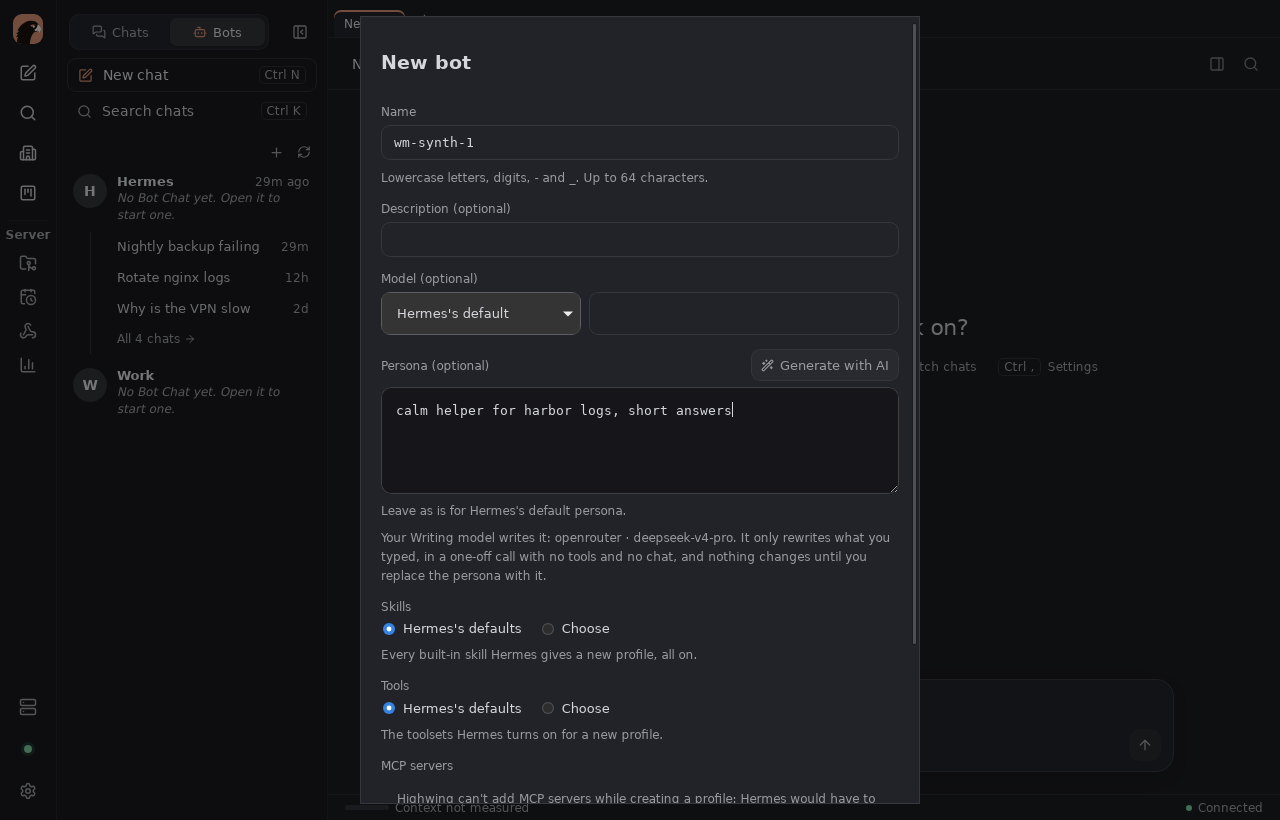
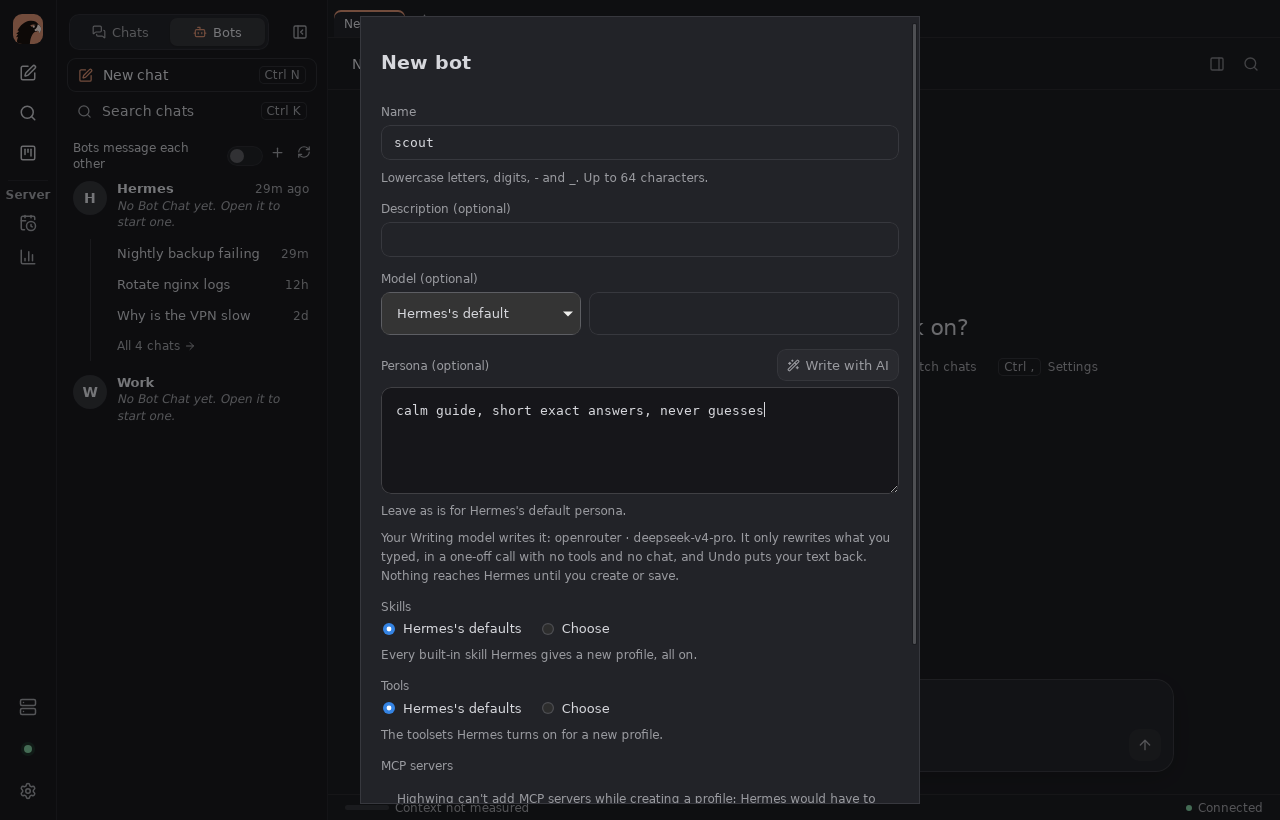
Fit the Writing model to main's profile-form Persona, and renumber its ADR to 0209
Main's #16 removed Settings → Persona. A persona is now written only in
the profile form (ADR 0206), whose Write with AI rewrites the field in
place for New bot and Edit bot. The rebase moved the Writing model onto
that form: Write with AI there gets a Writer for the profile it writes
for, the profile in use for New and the edited profile for Edit.

The form covers the window, so its failures name the setting in words
only. Settings → Persona was the only place that offered Open Text
generation and Open Writing model, so those links go with it:
WritingFailed.fix, fixLabel, the two link labels, App's openWritingFix
and openWritingModel, and Settings' writing.show.

The ADR, glossary and screenshot notes now describe the profile form,
and the ADR is renumbered to 0209, after main's 0208.

diff --git a/src/App.tsx b/src/App.tsx
@@ -23,7 +23,6 @@ import { PROJECTS_KEY, projectLinks, projectScope } from "./hermes/projectLinks"
 import { chatContext, contextLedger, knownWindow, type ChatContexts } from "./hermes/projectContextFiles";
 import { ProjectsStore, type Project } from "./hermes/projects";
 import { instructionsMessage, modelProblem, resolveNewChat, savedDefaults, type ProjectDefaults } from "./hermes/projectDefaults";
-import type { WritingFailed } from "./hermes/writingModel";
 import { systemSecrets } from "./hermes/tauriKeyring";
 import { appUpdates } from "./hermes/tauriUpdates";
 import { tauriSnapshots } from "./hermes/snapshots";
@@ -1331,7 +1330,6 @@ export function Main({
   useCloseGuard(memoryUnsaved || skillUnsaved || !!personaUnsaved || artifactUnsaved, (close) => guardRef.current(close, "close"));
   // A new object each time a row asks Settings to show the Text generation model; the rail's button opens it plainly.
   const [showTextGeneration, setShowTextGeneration] = useState<object>();
-  const [showWritingModel, setShowWritingModel] = useState<object>();
   /** Set to open Settings on its Memory tab, from the context inspector. */
   const [showMemory, setShowMemory] = useState<object>();
   /** Set, each time anew, to open Settings → Diagnostics, at the capability a screen's note named. */
@@ -1733,7 +1731,6 @@ export function Main({
     setJobsOpen(false);
     setUsageOpen(false); setWorkOpen(false);
     setShowTextGeneration(undefined);
-    setShowWritingModel(undefined);
     setShowMemory(undefined);
     setShowDiagnostics(undefined);
     setShowVoice(undefined);
@@ -1998,21 +1995,9 @@ export function Main({
     // One destination at a time: an earlier Memory shortcut mustn't switch Settings away from this one.
     setShowMemory(undefined);
     setShowDiagnostics(undefined);
-    setShowWritingModel(undefined);
     setShowTextGeneration({});
     setSettingsOpen(true);
   };
-  const openWritingModel = () => {
-    setProjectOpen(false);
-    setJobsOpen(false);
-    setUsageOpen(false); setWorkOpen(false);
-    setShowMemory(undefined);
-    setShowDiagnostics(undefined);
-    setShowTextGeneration(undefined);
-    setShowWritingModel({});
-    setSettingsOpen(true);
-  };
-  const openWritingFix = (fix: WritingFailed["fix"]) => (fix === "text-model" ? openTextGeneration() : openWritingModel());
   // Reveal the composer when Search, Settings, Projects, Server files or a narrow preview covers it, so the capture can
   // be reviewed.
   const takeScreenshot = (remote = false) => guard(() => {
@@ -3104,8 +3089,7 @@ export function Main({
                   setJobsOpen(false);
                   setUsageOpen(false); setWorkOpen(false);
                   setShowTextGeneration(undefined);
-                  setShowWritingModel(undefined);
-                  setShowDiagnostics(undefined);
+                                setShowDiagnostics(undefined);
                   setShowVoice(undefined);
                   setShowMemory({});
                   setSettingsOpen(true);
@@ -3634,7 +3618,7 @@ export function Main({
             localStt={localStt}
             transcribe={(audio, mime, side, signal) => localStt.transcribe({ audio, mime, profile: hermes.profile, connection: hermes.connectionId, side, signal })}
             showTextGeneration={showTextGeneration}
-            writing={{ desk: status === "connected" ? writing : undefined, scope: writingScope, show: showWritingModel }}
+            writing={{ desk: status === "connected" ? writing : undefined, scope: writingScope }}
             showMemory={showMemory}
             capabilities={hermes.capabilities}
             openGuide={openGuide}

diff --git a/src/ui/Settings.tsx b/src/ui/Settings.tsx
@@ -368,11 +368,8 @@ export function SettingsScreen({
   guard?: (go: () => void) => void;
   /** Set, each time anew, to show the Model tab at the Text generation model: from a title that couldn't be regenerated. */
   showTextGeneration?: object;
-  /**
-   * The Writing model (ADR 0205): the connection's writing desk while connected, where its pick is kept, and, set anew
-   * each time, `show` opens the Model tab at it, from a writing call that failed on it.
-   */
-  writing?: { desk?: WritingDesk; scope: string; show?: object };
+  /** The Writing model (ADR 0209): the connection's writing desk while connected, and where its pick is kept. */
+  writing?: { desk?: WritingDesk; scope: string };
   /** The saved connections (Connections.tsx `ConnectionManager`), shown first in General. */
   connectionManager?: ReactNode;
   /** Set (to a new object each time) to show the Memory tab. */
@@ -424,7 +421,7 @@ export function SettingsScreen({
   );
   const [modelWrites, setModelWrites] = useState(0);
   const [tab, setTabNow] = useState<Tab>(
-    showTextGeneration || writing?.show
+    showTextGeneration
       ? "model"
       : showMemory && memory
         ? "memory"
@@ -504,12 +501,6 @@ export function SettingsScreen({
     setTab("model");
   // eslint-disable-next-line react-hooks/exhaustive-deps -- open the Model tab only when a new `showTextGeneration` arrives; `setTab` is rebuilt each render, so listing it would switch back to Model on every render
   }, [showTextGeneration]);
-  useEffect(() => {
-    if (!writing?.show) return;
-    setQuery("");
-    setTab("model");
-  // eslint-disable-next-line react-hooks/exhaustive-deps -- as for `showTextGeneration` above
-  }, [writing?.show]);
   useEffect(() => {
     if (!showMemory || !memory) return;
     setQuery("");
@@ -973,7 +964,6 @@ export function SettingsScreen({
                 scope={writing.scope}
                 profiles={listProfiles ?? (async () => [profile])}
                 catalog={() => modelSettings.providers()}
-                show={searching ? undefined : writing.show}
                 reread={modelWrites}
               />
             )}

diff --git a/src/hermes/writingModel.ts b/src/hermes/writingModel.ts
@@ -1,4 +1,4 @@
-// Writing for a bot (ADR 0205): Write with AI on the profile form's Persona (New and Edit), and project
+// Writing for a bot (ADR 0209): Write with AI on the profile form's Persona (New and Edit), and project
 // instructions. One stateless `llm.oneshot` per call, which takes no model: Hermes runs `auxiliary.<task>` of the
 // profile's config. So which model writes is decided here, as which `task` to send and, for the app's Writing model,
 // one config key this app keeps in step. Precedence: a model pinned on the server for the bot, then the app's Writing
@@ -65,7 +65,7 @@ export type Written = { text: string; route: WritingRoute };
 
 /**
  * Why Hermes couldn't write. `sign-in`: it has no credentials for the route's provider. `no-provider`: it found no
- * provider to run the task on at all. Either only refines the words; the route decides the fix.
+ * provider to run the task on at all. Either only refines the words; the route decides what they say to change.
  */
 export type WritingCause = "sign-in" | "no-provider" | "other";
 
@@ -75,7 +75,7 @@ function causeOf(detail: string): WritingCause {
   return "other";
 }
 
-/** Hermes ran a writing call and it failed. Carries the route, so the words and the fix come from why this model was chosen. */
+/** Hermes ran a writing call and it failed. Carries the route, so the words come from why this model was chosen. */
 export class WritingFailed extends Error {
   constructor(
     readonly profile: string,
@@ -85,17 +85,6 @@ export class WritingFailed extends Error {
     readonly detail: string,
   ) {
     super(detail);
-  }
-
-  /** The setting that changes the outcome: a pin where it lives, everything else at the Writing model. */
-  get fix(): "text-model" | "writing-model" {
-    switch (this.route.via) {
-      case "pin":
-        return "text-model";
-      case "app":
-      case "main":
-        return "writing-model";
-    }
   }
 }
 

diff --git a/src/hermes/writingModel.test.ts b/src/hermes/writingModel.test.ts
@@ -98,18 +98,18 @@ describe("A writing call on the fake server", () => {
     expect(server.oneshotCalls).toEqual([]);
   });
 
-  it.each<[string, (s: FakeHermes) => void, string, WritingRoute["via"], "text-model" | "writing-model"]>([
-    ["a pin", (s) => s.signedOut.add("openrouter"), "default", "pin", "text-model"],
-    ["the Writing model", (s) => s.signedOut.add("openrouter"), "wazuh", "app", "writing-model"],
-    ["the bot's own model", (s) => s.signedOut.add("openai-codex"), "wazuh", "main", "writing-model"],
-  ])("fails on %s with no sign-in, pointing at the setting that fixes it", async (_, signOut, profile, via, fix) => {
+  it.each<[string, (s: FakeHermes) => void, string, WritingRoute["via"]]>([
+    ["a pin", (s) => s.signedOut.add("openrouter"), "default", "pin"],
+    ["the Writing model", (s) => s.signedOut.add("openrouter"), "wazuh", "app"],
+    ["the bot's own model", (s) => s.signedOut.add("openai-codex"), "wazuh", "main"],
+  ])("fails on %s with no sign-in, carrying the route it ran on", async (_, signOut, profile, via) => {
     const { server, desk, call, setPick } = await twoBots({ pick });
     if (via === "main") setPick(undefined);
     signOut(server);
     const failed = await desk.writer(profile, "persona").ask(call).catch((e: unknown) => e);
     expect(failed).toBeInstanceOf(WritingFailed);
     // On its own model Hermes doesn't name a sign-in: it says it found no provider for the task at all.
-    expect(failed).toMatchObject({ profile, route: { via }, cause: via === "main" ? "no-provider" : "sign-in", fix });
+    expect(failed).toMatchObject({ profile, route: { via }, cause: via === "main" ? "no-provider" : "sign-in" });
   });
 
   it("leaves chat titles alone: Text generation's block and a Regenerate title's model don't move", async () => {

diff --git a/src/ui/WritingModelSettings.tsx b/src/ui/WritingModelSettings.tsx
@@ -1,4 +1,4 @@
-// Settings → Model → Writing model (ADR 0205): the model that writes personas and project instructions for every bot
+// Settings → Model → Writing model (ADR 0209): the model that writes personas and project instructions for every bot
 // with no model pinned on the server, kept on this computer for the connection, and which model each bot writes with.
 // Picking one writes nothing to Hermes; a bot's config gets its copy at that bot's next writing call (writingModel.ts).
 import { useEffect, useId, useState, useSyncExternalStore } from "react";
@@ -19,7 +19,6 @@ export function WritingModelSettings({
   scope,
   profiles,
   catalog,
-  show,
   reread,
 }: {
   /** Undefined while not connected: the saved pick still shows, and the bot list says it needs a connection. */
@@ -28,8 +27,6 @@ export function WritingModelSettings({
   scope: string;
   profiles: () => Promise<string[]>;
   catalog: () => Promise<CatalogProvider[]>;
-  /** Set anew to scroll here and focus the heading. */
-  show?: object;
   /** Changes after Settings → Model wrote to Hermes, so a pin set or cleared there shows in the bot list. */
   reread?: number;
 }) {
@@ -43,14 +40,6 @@ export function WritingModelSettings({
   const [bots, setBots] = useState<Bots>({ kind: "reading" });
 
   useEffect(() => setProvider(saved?.provider ?? ""), [saved?.provider]);
-
-  useEffect(() => {
-    const heading = show && document.getElementById(titleId);
-    if (!heading) return;
-    heading.tabIndex = -1;
-    heading.scrollIntoView({ block: "start" });
-    heading.focus({ preventScroll: true });
-  }, [show, titleId]);
 
   useEffect(() => {
     if (!desk) return;

diff --git a/src/ui/ModelSettings.tsx b/src/ui/ModelSettings.tsx
@@ -177,7 +177,7 @@ function followsLine(route: WritingRoute): string {
 
 /**
  * The Project instructions model: what Write with AI and Improve with AI run on, pinned on the server (ADR 0177). Until
- * one is picked, writing goes on as for a persona (ADR 0205). Written as soon as it's picked, like Text generation's.
+ * one is picked, writing goes on as for a persona (ADR 0209). Written as soon as it's picked, like Text generation's.
  * Hermes has no slot for it, so it goes into the profile's config with `PUT /api/config`, where Hermes checks no price.
  */
 function InstructionsModel({
@@ -431,7 +431,7 @@ export function ModelSettings({
   connected: boolean;
   /** Set anew to bring the Text generation model into view once the setup is read. */
   showTextGeneration?: object;
-  /** Where this connection's Writing model is kept (ADR 0205). */
+  /** Where this connection's Writing model is kept (ADR 0209). */
   writingScope?: string;
   /** After any part is written to Hermes: a pin changed may change which model writes for a bot. */
   onWritten?: () => void;

diff --git a/src/i18n/en.ts b/src/i18n/en.ts
@@ -601,7 +601,7 @@ export const en = {
     },
   },
   /**
-   * Which model writes a persona or project instructions, and why it failed (writingModel.ts, ADR 0205). `model` is
+   * Which model writes a persona or project instructions, and why it failed (writingModel.ts, ADR 0209). `model` is
    * "provider · model".
    */
   writing: {
@@ -630,8 +630,6 @@ export const en = {
     mainNoProvider: (profile: string) => `${profile} has no model Hermes can write with. Pick a Writing model in Settings → Model.`,
     mainOther: (profile: string, model: string, detail: string) =>
       `${profile} writes with its own model, ${model}, and Hermes couldn't use it for writing: ${detail.replace(/\.$/, "")}. Pick a Writing model in Settings → Model.`,
-    openTextGeneration: "Open Text generation",
-    openWritingModel: "Open Writing model",
     /** Settings → Model → Writing model (WritingModelSettings.tsx). */
     settings: {
       title: "Writing model",

diff --git a/src/ui/writingWords.ts b/src/ui/writingWords.ts
@@ -1,5 +1,5 @@
 // The words for which model writes a persona or project instructions, and why it failed, from the route it took
-// (writingModel.ts, ADR 0205).
+// (writingModel.ts, ADR 0209).
 import { shortName } from "../hermes/models";
 import { hermesCommand, missingSignIn } from "../hermes/transport";
 import type { WritingFailed, WritingRoute } from "../hermes/writingModel";
@@ -51,5 +51,3 @@ export function writingFailedText(w: Words, e: WritingFailed): string {
       return cause === "other" ? w.mainOther(profile, modelName(w, route), detail) : w.mainSignIn(profile, modelName(w, route));
   }
 }
-
-export const fixLabel = (w: Words, fix: WritingFailed["fix"]) => (fix === "text-model" ? w.openTextGeneration : w.openWritingModel);

diff --git a/src/ui/PersonaRephrase.tsx b/src/ui/PersonaRephrase.tsx
@@ -1,5 +1,5 @@
 // Write with AI on the profile form's Persona (ADR 0197, 0206). It rewrites only what the owner typed, on an explicit
-// click, through one stateless `llm.oneshot` on the model that writes for a profile (writingModel.ts, ADR 0205), and
+// click, through one stateless `llm.oneshot` on the model that writes for a profile (writingModel.ts, ADR 0209), and
 // puts the answer in the field itself; Undo puts the owner's text back. Nothing reaches Hermes's SOUL.md until the
 // form's Create or Save.
 // Hermes has no cancel: Stop, a newer ask, closing the dialog and a switch of profile only drop the answer when it comes.

diff --git a/src/ui/ProfileSettings.tsx b/src/ui/ProfileSettings.tsx
@@ -84,7 +84,7 @@ export type ProfilesWiring = {
   copyText: (text: string) => Promise<void>;
   /**
    * Write with AI on the form's Persona (ADR 0197, 0206), run as `profile` on the model that writes for it
-   * (writingModel.ts, ADR 0203): the profile in use for New, the profile edited for Edit. Given only while connected.
+   * (writingModel.ts, ADR 0209): the profile in use for New, the profile edited for Edit. Given only while connected.
    */
   rephrase?: (profile: string) => Writer;
   /** Each profile's SOUL.md, which Edit reads as it opens and saves with the form (ADR 0206); without it Edit has no Persona. */

diff --git a/src/i18n/es.ts b/src/i18n/es.ts
@@ -603,8 +603,6 @@ export const es: Catalogue = {
     mainNoProvider: (profile) => `${profile} no tiene ningún modelo con el que Hermes pueda escribir. Elige un modelo de escritura en Ajustes → Modelo.`,
     mainOther: (profile, model, detail) =>
       `${profile} escribe con su propio modelo, ${model}, y Hermes no pudo usarlo para escribir: ${detail.replace(/\.$/, "")}. Elige un modelo de escritura en Ajustes → Modelo.`,
-    openTextGeneration: "Abrir Generación de texto",
-    openWritingModel: "Abrir Modelo de escritura",
     settings: {
       title: "Modelo de escritura",
       intro:

diff --git a/src/hermes/modelSettings.test.ts b/src/hermes/modelSettings.test.ts
@@ -382,7 +382,7 @@ describe("The Project instructions model (ADR 0177)", () => {
   });
 });
 
-describe("The Writing model's copy in a bot's config (ADR 0205)", () => {
+describe("The Writing model's copy in a bot's config (ADR 0209)", () => {
   it("is written whole for the profile named, a user-defined endpoint pointed at its own URL and stale keys cleared, and read back", async () => {
     const { server, api } = await setup();
     server.modelConfig.unslottedAuxiliary.highwing_writing = { provider: "openrouter", model: "x", api_key: "sk-or-old" };
